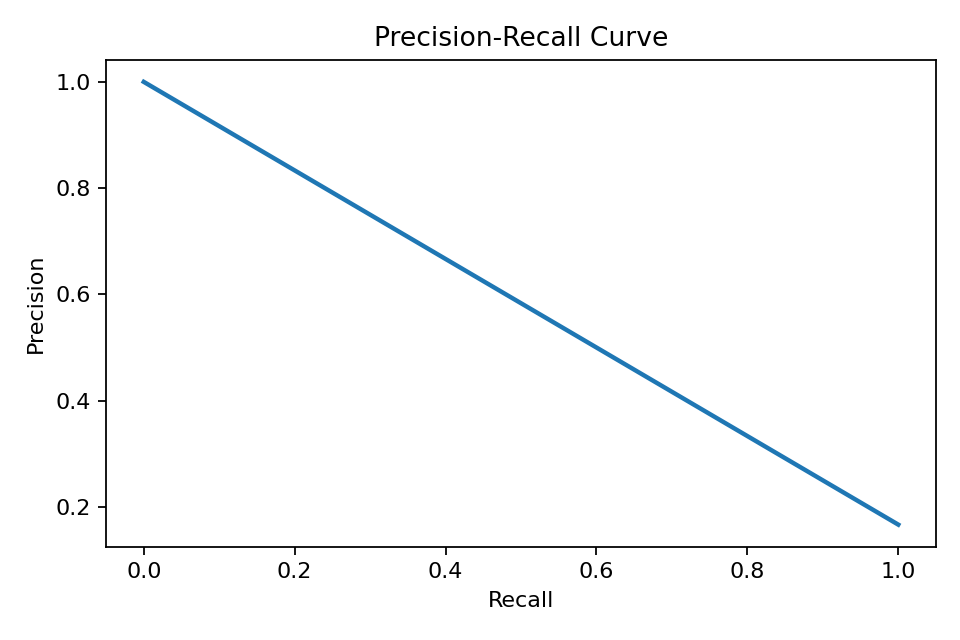
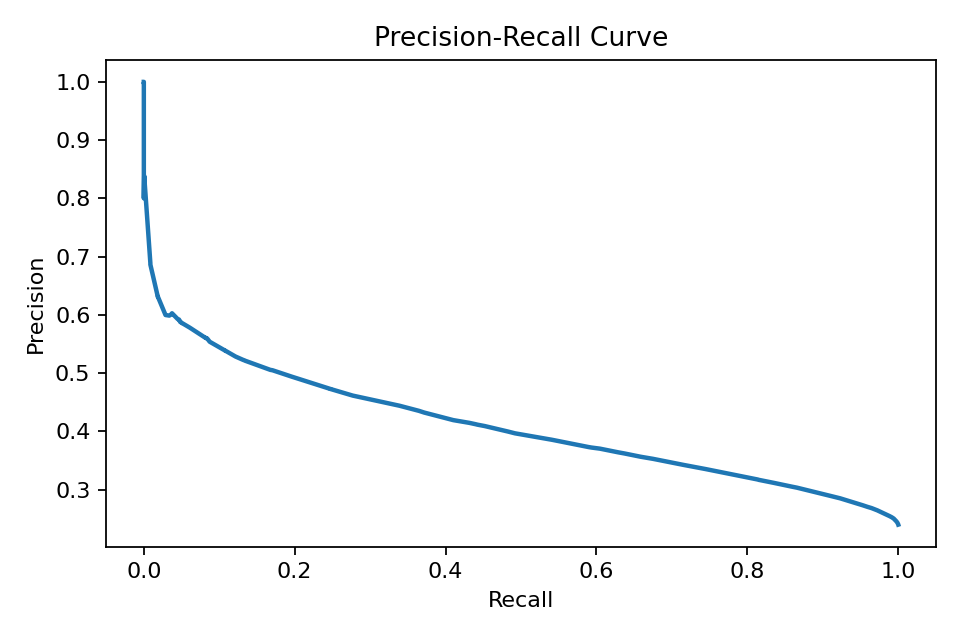
adjusted model card generation, regenerated artifacts, and updated runtime instructions.

diff --git a/src/evaluation.py b/src/evaluation.py
@@ -182,12 +182,6 @@ def _model_card(bundle, stage: str, metrics: dict) -> str:
         f"- Training timestamp: `{metadata.get('training_timestamp', 'n/a')}`",
         f"- Sample rows requested: `{metadata.get('sample_rows_requested', 'n/a')}`",
         "",
-        "## Purpose",
-        "Calibrated default-risk prediction for accepted LendingClub loans with resolved outcomes.",
-        "",
-        "## Scope",
-        "Evaluated on accepted/funded loans only. Not a production underwriting system or rejected-applicant outcome model.",
-        "",
         "## Target",
         f"- Target: `{metadata.get('target_name', TARGET)}`",
         f"- Good statuses: `{_csv(metadata.get('good_statuses'))}`",
@@ -208,10 +202,7 @@ def _model_card(bundle, stage: str, metrics: dict) -> str:
         "",
         "## Split Strategy",
         f"`{json.dumps(metadata.get('split_summary', 'not recorded'), default=str)}`",
-        "",
-        "## Known Limits",
-        *[f"- {item}" for item in limits],
-        "",
+        ""
     ])
 
 

diff --git a/reports/validation/model_card.md b/reports/validation/model_card.md
@@ -4,7 +4,7 @@
 - Evidence label: `Full LendingClub local data`
 - Evidence note: Example local-run evidence from user-supplied raw LendingClub files. Raw data is not committed.
 - Evaluation split: `validation`
-- Training timestamp: `2026-07-08T23:56:18.180820+00:00`
+- Training timestamp: `2026-07-09T21:07:20.724803+00:00`
 - Sample rows requested: `None`
 
 ## Purpose
@@ -20,10 +20,10 @@ Evaluated on accepted/funded loans only. Not a production underwriting system or
 - Dropped statuses: `, Current, In Grace Period, Issued, Late (16-30 days), Late (31-120 days)`
 
 ## Dataset Splits
-- Train: `24`
-- Calibration: `6`
-- Validation: `6`
-- Test: `4`
+- Train: `829355`
+- Calibration: `196607`
+- Validation: `187864`
+- Test: `134273`
 
 ## Model
 - Model type: `calibrated_hist_gradient_boosting`
@@ -32,16 +32,16 @@ Evaluated on accepted/funded loans only. Not a production underwriting system or
 - Feature count: `25`
 
 ## Validation Metrics
-- Rows: `6`
-- Observed default rate: `0.1667`
-- Mean predicted default rate: `0.3333`
-- ROC-AUC: `0.5000`
-- PR-AUC: `0.1667`
-- Brier score: `0.1667`
-- Log loss: `0.5210`
+- Rows: `187864`
+- Observed default rate: `0.2399`
+- Mean predicted default rate: `0.2335`
+- ROC-AUC: `0.6975`
+- PR-AUC: `0.4042`
+- Brier score: `0.1662`
+- Log loss: `0.5050`
 
 ## Split Strategy
-`[{"split": "train", "rows": 24, "default_rate": 0.25, "date_min": "2015-01-01T00:00:00", "date_max": "2016-12-01T00:00:00"}, {"split": "calibration", "rows": 6, "default_rate": 0.3333333333333333, "date_min": "2017-01-01T00:00:00", "date_max": "2017-06-01T00:00:00"}, {"split": "validation", "rows": 6, "default_rate": 0.16666666666666666, "date_min": "2017-07-01T00:00:00", "date_max": "2017-12-01T00:00:00"}, {"split": "test", "rows": 4, "default_rate": 0.25, "date_min": "2018-01-01T00:00:00", "date_max": "2018-04-01T00:00:00"}]`
+`[{"split": "train", "rows": 829355, "default_rate": 0.18455908507213437, "date_min": "2007-06-01T00:00:00", "date_max": "2015-12-01T00:00:00"}, {"split": "calibration", "rows": 196607, "default_rate": 0.22647718545117926, "date_min": "2016-01-01T00:00:00", "date_max": "2016-07-01T00:00:00"}, {"split": "validation", "rows": 187864, "default_rate": 0.2398916237278031, "date_min": "2016-08-01T00:00:00", "date_max": "2017-06-01T00:00:00"}, {"split": "test", "rows": 134273, "default_rate": 0.19885606190373345, "date_min": "2017-07-01T00:00:00", "date_max": "2018-12-01T00:00:00"}]`
 
 ## Known Limits
 - accepted-loan selection bias